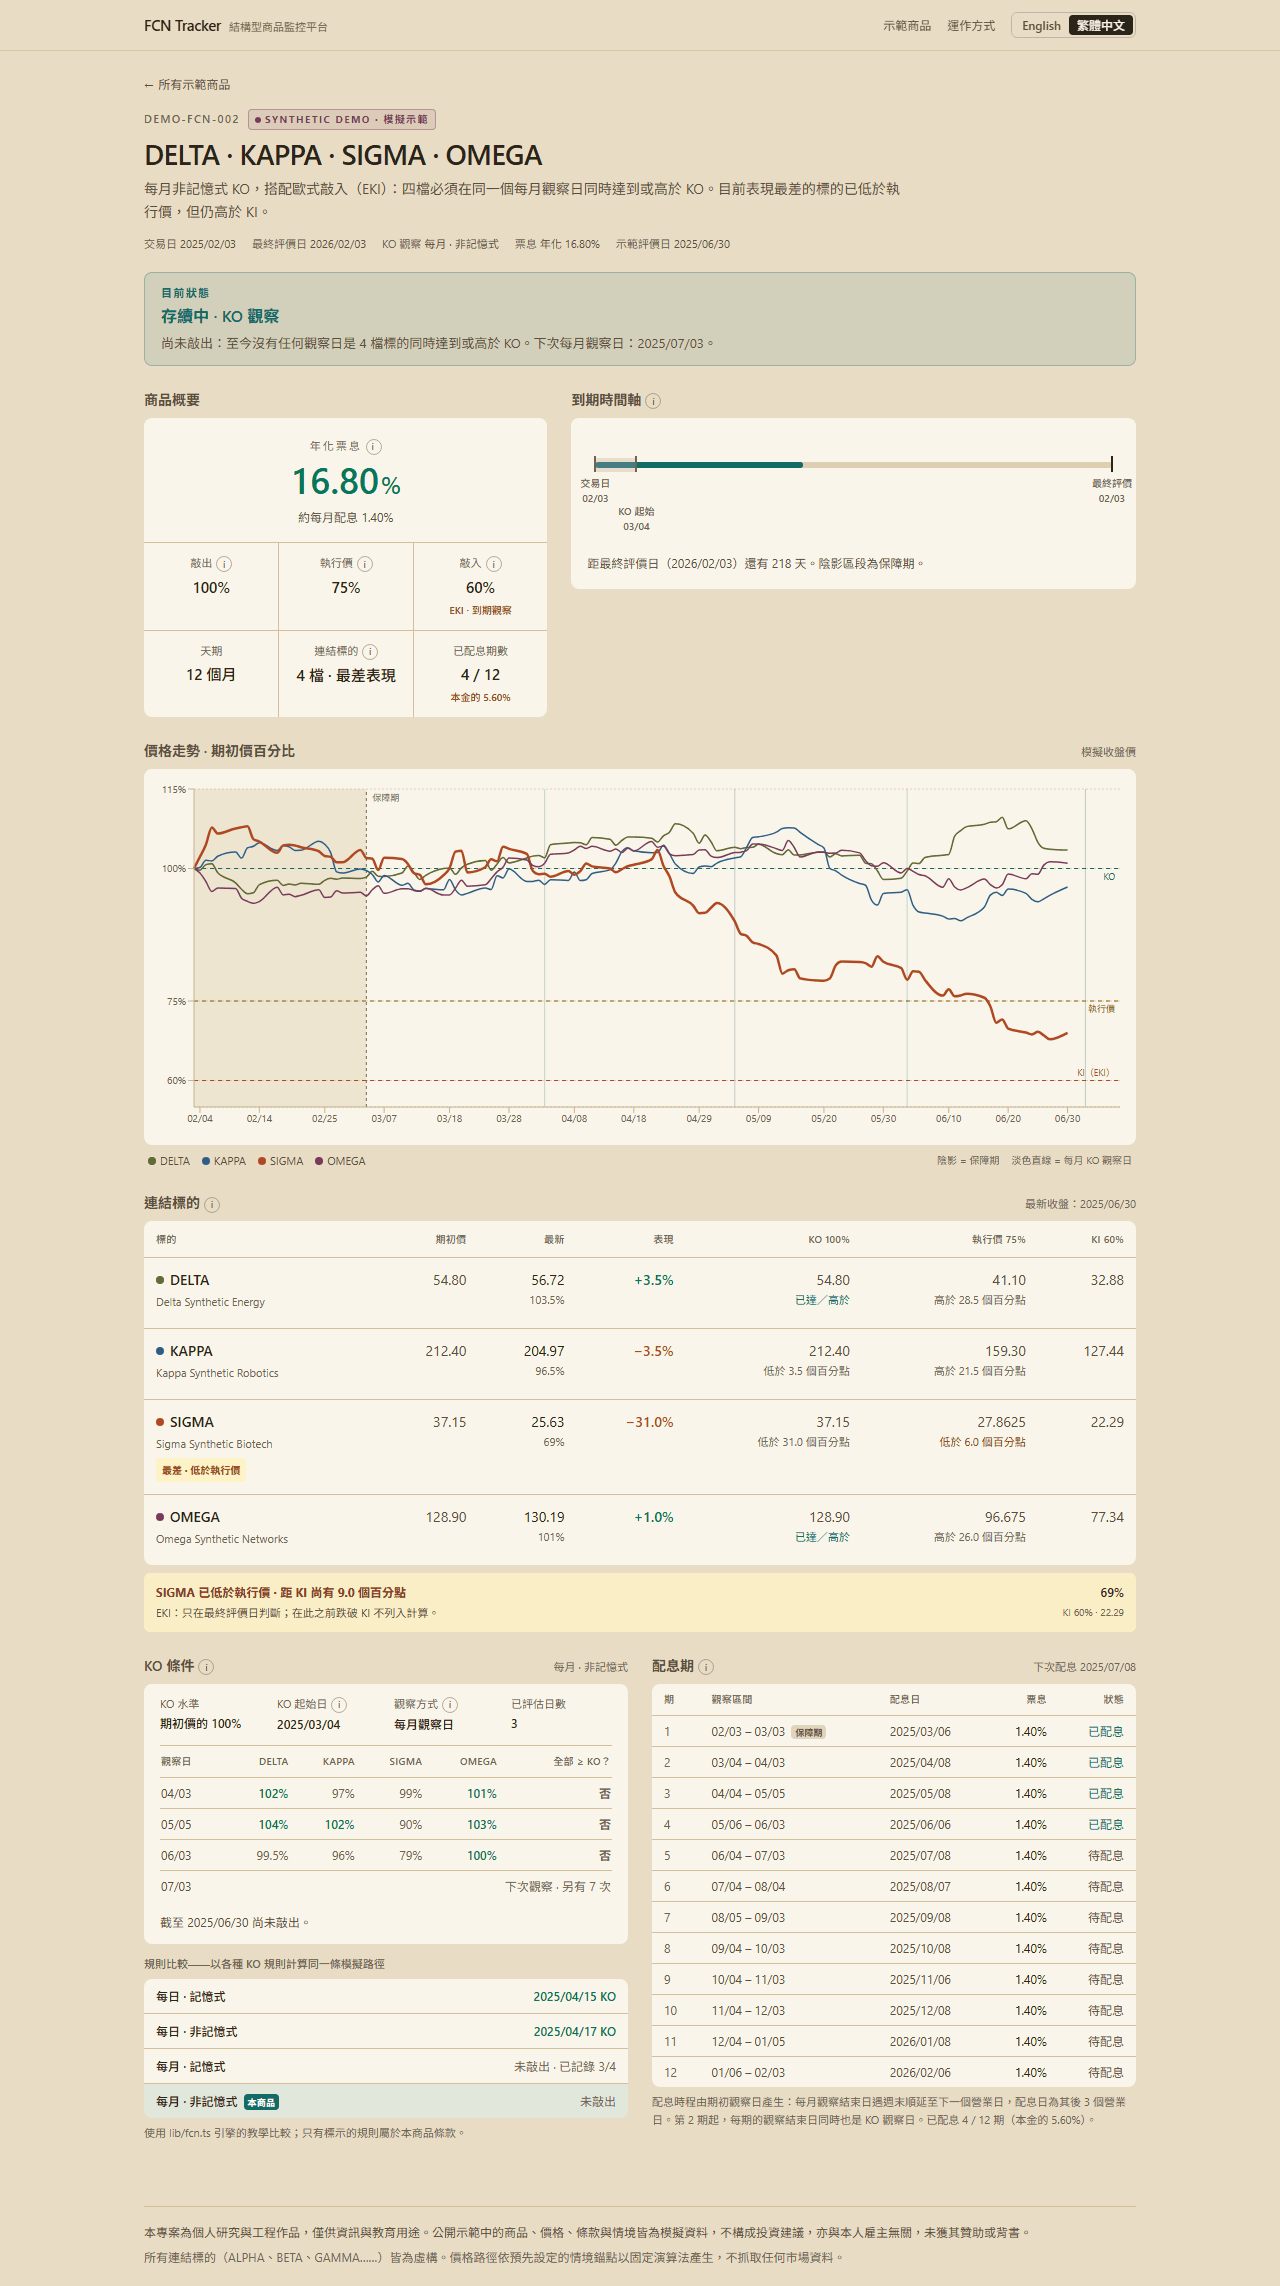
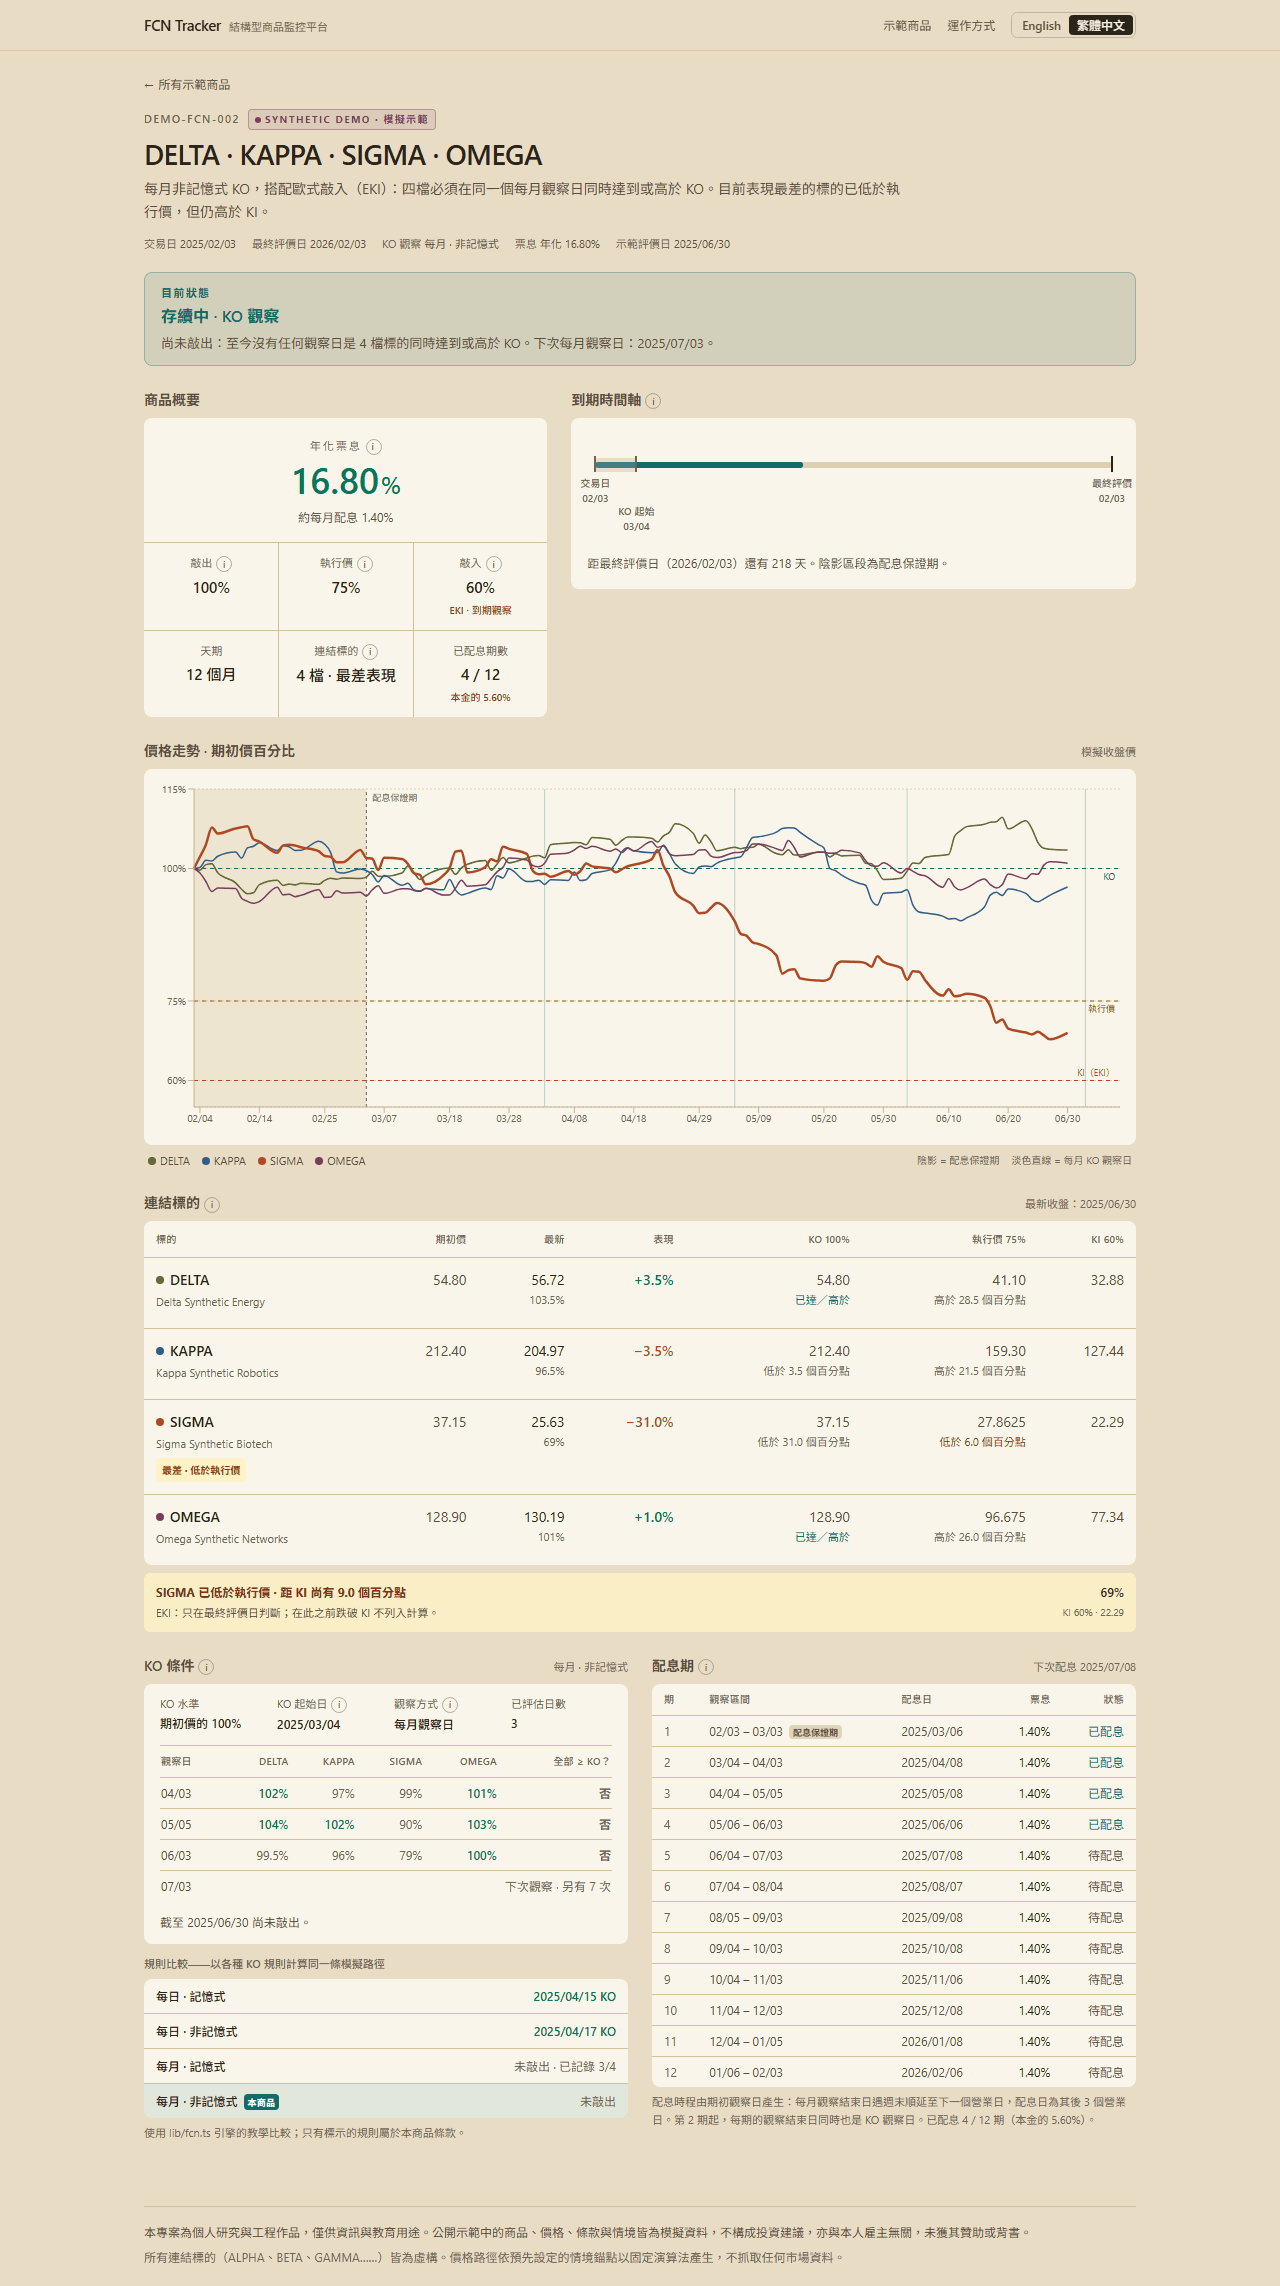
Use 配息保證期 for the non-call period in Chinese copy

diff --git a/lib/i18n/messages.ts b/lib/i18n/messages.ts
@@ -391,7 +391,7 @@ const zhTW: Messages = {
     observation:
       "每個配息期都有對應的觀察區間。每日 KO 商品自 KO 起始日起觀察每個收盤價；每月 KO 商品只在各期的觀察結束日觀察。",
     nonCall:
-      "KO 起始日之前不觀察敲出條件，商品不會提前出場；這段期間的收盤價即使高於 KO 水準也不列入計算。",
+      "KO 起始日之前不觀察敲出條件，商品不會提前出場，因此至少可領到這段期間的票息；這段期間的收盤價即使高於 KO 水準也不列入計算。",
     ko: "敲出（KO）門檻，以各連結標的期初價的百分比表示。當某個觀察日滿足 KO 條件，商品即以 100% 本金加上該期票息提前出場。",
     strike:
       "到期時，若表現最差標的的收盤價低於執行價（設有 KI 的商品須已發生敲入），投資人將以執行價承接該標的股票，而不是取回 100% 現金。",
@@ -407,7 +407,7 @@ const zhTW: Messages = {
   terms: {
     coupon: "票息",
     observation: "觀察頻率",
-    nonCall: "保障期",
+    nonCall: "配息保證期",
     ko: "敲出",
     strike: "執行價",
     ki: "敲入",
@@ -420,7 +420,7 @@ const zhTW: Messages = {
   observationMode: (freq: KOObservationFreq, memory: boolean) =>
     `${freq === "daily" ? "每日" : "每月"} · ${memory ? "記憶式" : "非記憶式"}`,
   status: {
-    "non-call": "保障期",
+    "non-call": "配息保證期",
     "ko-observation": "存續中 · KO 觀察",
     "knocked-out": "已敲出 · 提前出場",
     matured: "已到期",
@@ -473,11 +473,11 @@ const zhTW: Messages = {
       },
       {
         step: "評估觀察日",
-        text: "引擎依規則選出觀察日（每個收盤價，或僅每月觀察日），套用保障期，並計算記憶式或同日 KO。",
+        text: "引擎依規則選出觀察日（每個收盤價，或僅每月觀察日），套用配息保證期，並計算記憶式或同日 KO。",
       },
       {
         step: "推導商品狀態",
-        text: "狀態（保障期、存續中、已敲出、已到期）、配息狀態、表現最差標的、與各門檻的距離、KI 事件及到期結算。",
+        text: "狀態（配息保證期、存續中、已敲出、已到期）、配息狀態、表現最差標的、與各門檻的距離、KI 事件及到期結算。",
       },
       {
         step: "呈現",
@@ -511,7 +511,7 @@ const zhTW: Messages = {
       },
       {
         lead: "在觀察日判斷 KO。",
-        text: "第一期（保障期）不觀察敲出條件；之後依每日（每個收盤價）或每月（各期觀察結束日）判斷。一旦滿足條件，商品以 100% 本金加上當期票息提前出場。",
+        text: "第一期（配息保證期）不觀察敲出條件；之後依每日（每個收盤價）或每月（各期觀察結束日）判斷。一旦滿足條件，商品以 100% 本金加上當期票息提前出場。",
       },
       {
         lead: "記憶式 KO。",
@@ -597,7 +597,7 @@ const zhTW: Messages = {
         `${date} 提前出場，比預定的最終評價日早 ${days} 天。`,
       matured: (date: string) => `${date} 到達最終評價日，期間未曾敲出。`,
       remaining: (days: number, date: string) =>
-        `距最終評價日（${date}）還有 ${days} 天。陰影區段為保障期。`,
+        `距最終評價日（${date}）還有 ${days} 天。陰影區段為配息保證期。`,
     },
     chart: {
       title: "價格走勢 · 期初價百分比",
@@ -605,9 +605,9 @@ const zhTW: Messages = {
       ko: "KO",
       strike: "執行價",
       ki: (style: string) => `KI（${style}）`,
-      nonCall: "保障期",
+      nonCall: "配息保證期",
       kiEvent: "敲入事件",
-      legendNonCall: "陰影 = 保障期",
+      legendNonCall: "陰影 = 配息保證期",
       legendMonthly: "淡色直線 = 每月 KO 觀察日",
       legendGrey: "灰色 = 該標的已記錄 KO",
       aria: (tickers: string, ko: string, strike: string, ki: string | null) =>
@@ -673,7 +673,7 @@ const zhTW: Messages = {
       payment: "配息日",
       coupon: "票息",
       status: "狀態",
-      nonCall: "保障期",
+      nonCall: "配息保證期",
       note: (monthly: boolean, paid: number, total: number, pct: string) =>
         `配息時程由期初觀察日產生：每月觀察結束日遇週末順延至下一個營業日，配息日為其後 3 個營業日。${monthly ? "第 2 期起，每期的觀察結束日同時也是 KO 觀察日。" : ""}已配息 ${paid} / ${total} 期（本金的 ${pct}%）。`,
     },

diff --git a/__tests__/i18n.test.ts b/__tests__/i18n.test.ts
@@ -92,6 +92,14 @@ describe("dictionary", () => {
     for (const t of texts) assert.doesNotMatch(t, /實物交割/);
   });
 
+  it("calls the non-call period 配息保證期 in Chinese", () => {
+    assert.equal(zh.status["non-call"], "配息保證期");
+    assert.equal(zh.product.chart.nonCall, "配息保證期");
+    for (const v of Object.values(leaves(zh))) {
+      if (typeof v === "string") assert.doesNotMatch(v, /保障期/);
+    }
+  });
+
   it("keeps the synthetic-demo label visible in both languages", () => {
     assert.match(en.badge.text, /synthetic demo/i);
     assert.match(zh.badge.text, /synthetic demo/i);
